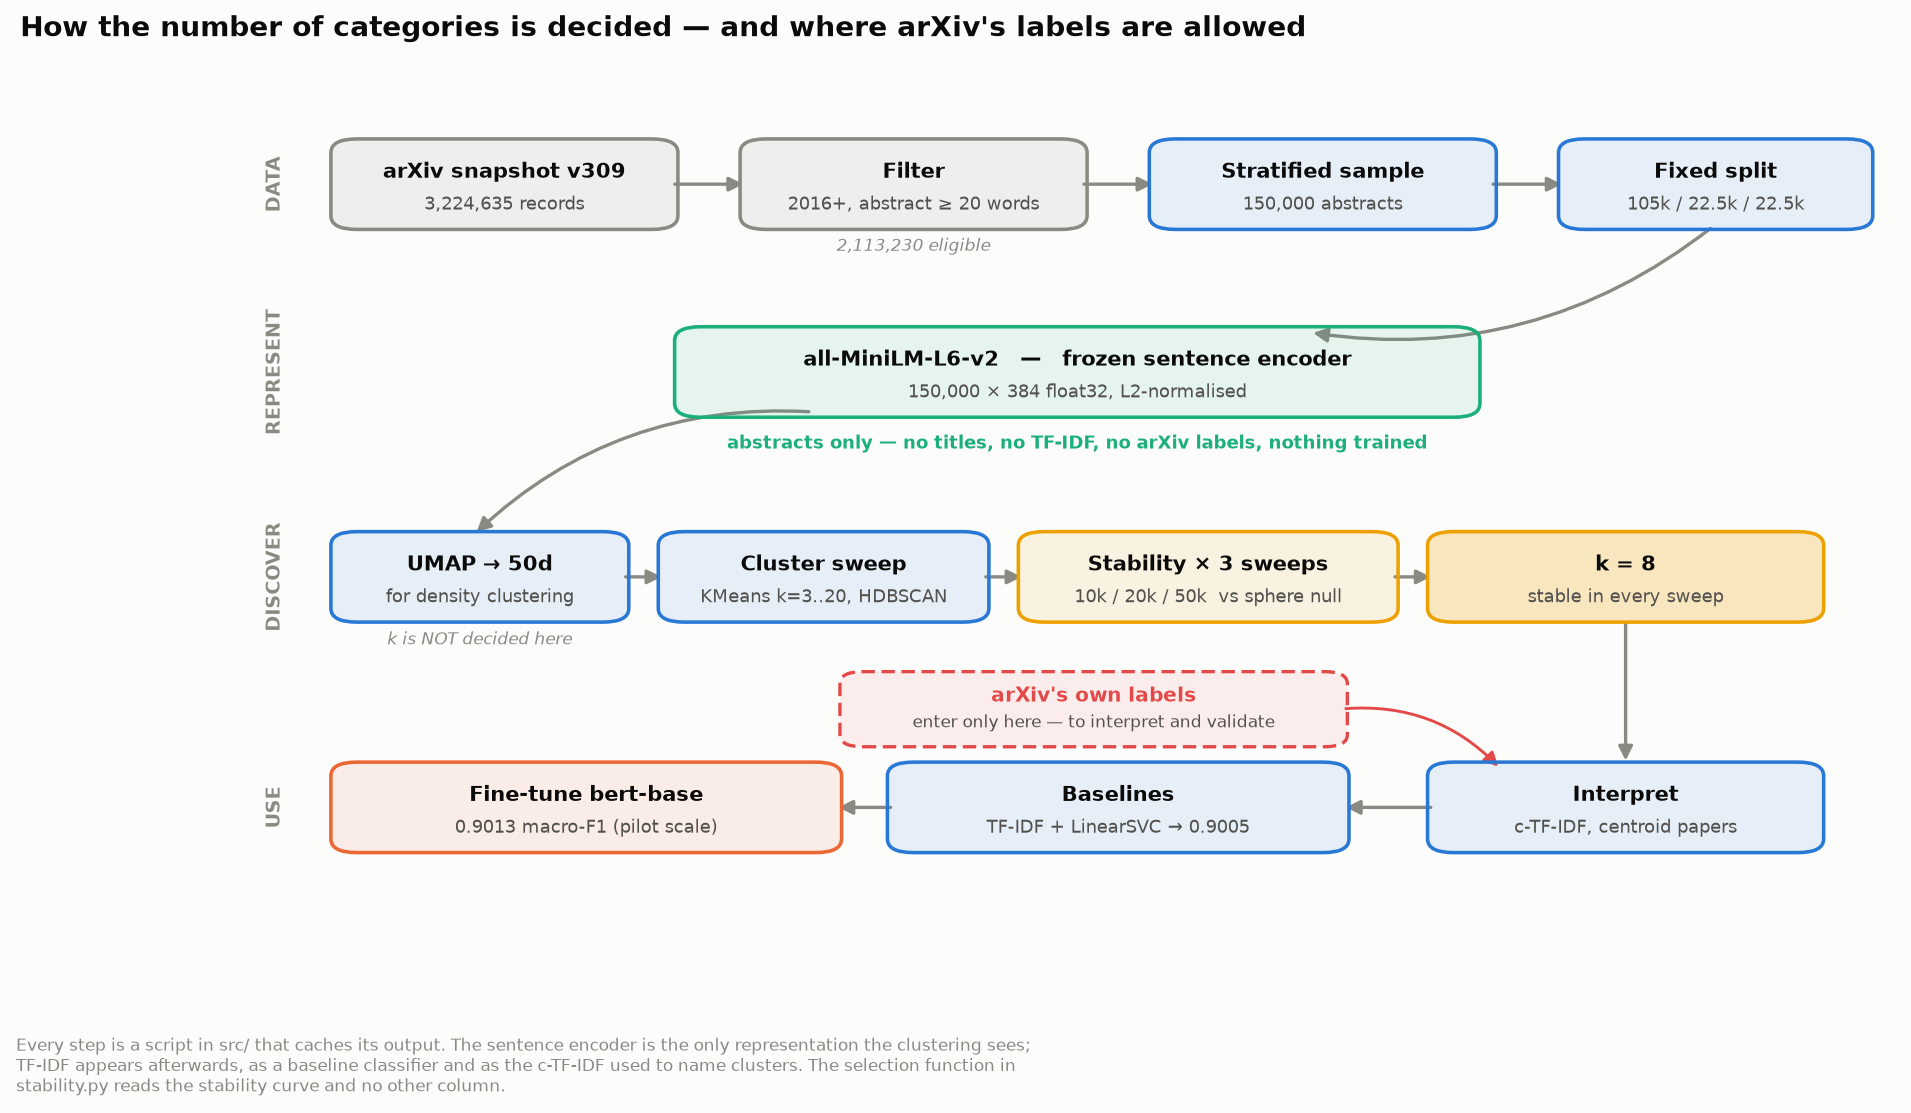
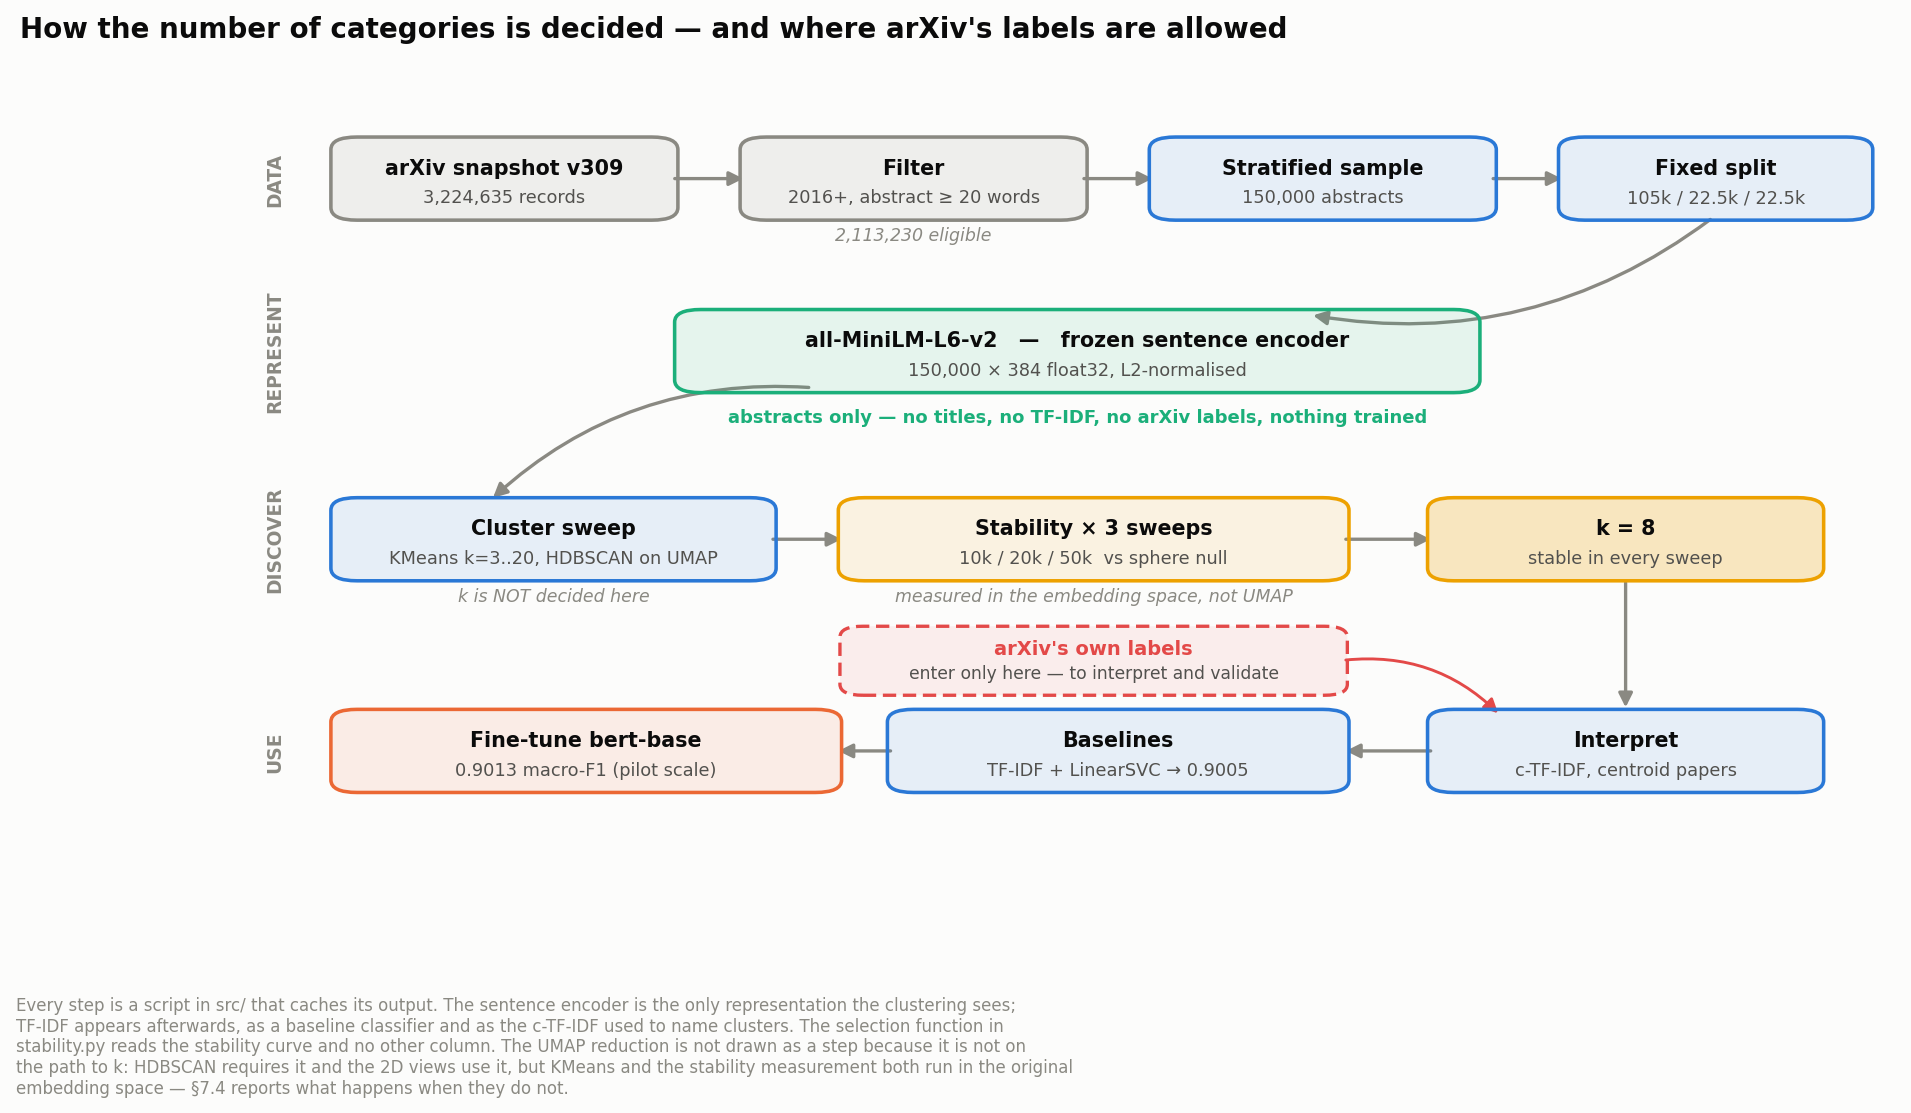
Drop the UMAP box from the pipeline diagram
Drawn first in the DISCOVER band, "UMAP -> 50d" read as a step on the path
to k. It is not one: KMeans is fitted in the original 384d embedding space
and so is the stability measurement that selects k=8. Only HDBSCAN requires
the reduction, and the 2D views use it.

Worse, the box put the diagram at odds with the report's own error 2
(section 7.4), which records measuring stability inside the reduction as a
mistake -- 17 of 18 candidates clear the threshold there, because
min_dist=0 manufactures separated clumps and what is measured is UMAP's
determinism rather than the data's structure.

The fact survives without the box: the cluster-sweep subtitle now reads
"KMeans k=3..20, HDBSCAN on UMAP", and a second note under the stability
box states that the measurement happens in the embedding space. The caption
says why the reduction has no step of its own.

diff --git a/src/figures.py b/src/figures.py
@@ -827,6 +827,13 @@ def fig_pipeline():
     The bottom band runs right-to-left (a serpentine layout) so that the step after
     "k = 8" sits directly beneath it. Laid out left-to-right, that connector has to cross
     the whole figure and cuts through three boxes on the way.
+
+    UMAP has no box of its own. Drawn as a step on the spine it reads as part of the path
+    to k, which is the one thing it must not be: KMeans is fitted in the original embedding
+    space and so is the stability measurement. The reduction is required by HDBSCAN and
+    used for the 2D views, so it is named in the cluster-sweep subtitle instead. Giving it
+    a box would also put the diagram at odds with §7.4, which reports measuring stability
+    inside the reduction as an error — 17 of 18 candidates clear the threshold there.
     """
     from matplotlib.patches import FancyBboxPatch, FancyArrowPatch
 
@@ -884,16 +891,17 @@ def fig_pipeline():
 
     # ---- Band 3: discovery, left to right ---------------------------------------------
     band(BAND["discover"], "DISCOVER")
-    f = box(5, BAND["discover"], 17, "UMAP → 50d", "for density clustering")
-    g = box(25, BAND["discover"], 19, "Cluster sweep", "KMeans k=3..20, HDBSCAN")
-    h = box(47, BAND["discover"], 22, "Stability × 3 sweeps",
+    g = box(5, BAND["discover"], 26, "Cluster sweep", "KMeans k=3..20, HDBSCAN on UMAP")
+    h = box(36, BAND["discover"], 30, "Stability × 3 sweeps",
             "10k / 20k / 50k  vs sphere null", CATEGORICAL[3])
     i = box(72, BAND["discover"], 23, "k = 8", "stable in every sweep", CATEGORICAL[3], .24)
-    arrow((e[0] + 8, e[2] - BOX_H / 2), (f[0] + 8, f[2] + BOX_H / 2), rad=0.22)
-    for p, q in ((f, g), (g, h), (h, i)):
+    arrow((e[0] + 8, e[2] - BOX_H / 2), (g[0] + 9, g[2] + BOX_H / 2), rad=0.22)
+    for p, q in ((g, h), (h, i)):
         arrow((p[1], p[2]), (q[0], q[2]))
-    ax.text(13.5, BAND["discover"] - 7.9, "k is NOT decided here", ha="center",
+    ax.text(18, BAND["discover"] - 7.9, "k is NOT decided here", ha="center",
             fontsize=7.8, color=INK_MUTED, style="italic")
+    ax.text(51, BAND["discover"] - 7.9, "measured in the embedding space, not UMAP",
+            ha="center", fontsize=7.8, color=INK_MUTED, style="italic")
 
     # ---- Band 4: runs RIGHT TO LEFT, so it starts directly under k = 8 ------------------
     band(BAND["classify"], "USE")
@@ -925,4 +933,7 @@ def fig_pipeline():
          "Every step is a script in src/ that caches its output. The sentence encoder is the "
          "only representation the clustering sees; TF-IDF appears afterwards, as a baseline "
          "classifier and as the c-TF-IDF used to name clusters. The selection function in "
-         "stability.py reads the stability curve and no other column.")
+         "stability.py reads the stability curve and no other column. The UMAP reduction is "
+         "not drawn as a step because it is not on the path to k: HDBSCAN requires it and the "
+         "2D views use it, but KMeans and the stability measurement both run in the original "
+         "embedding space — §7.4 reports what happens when they do not.")
